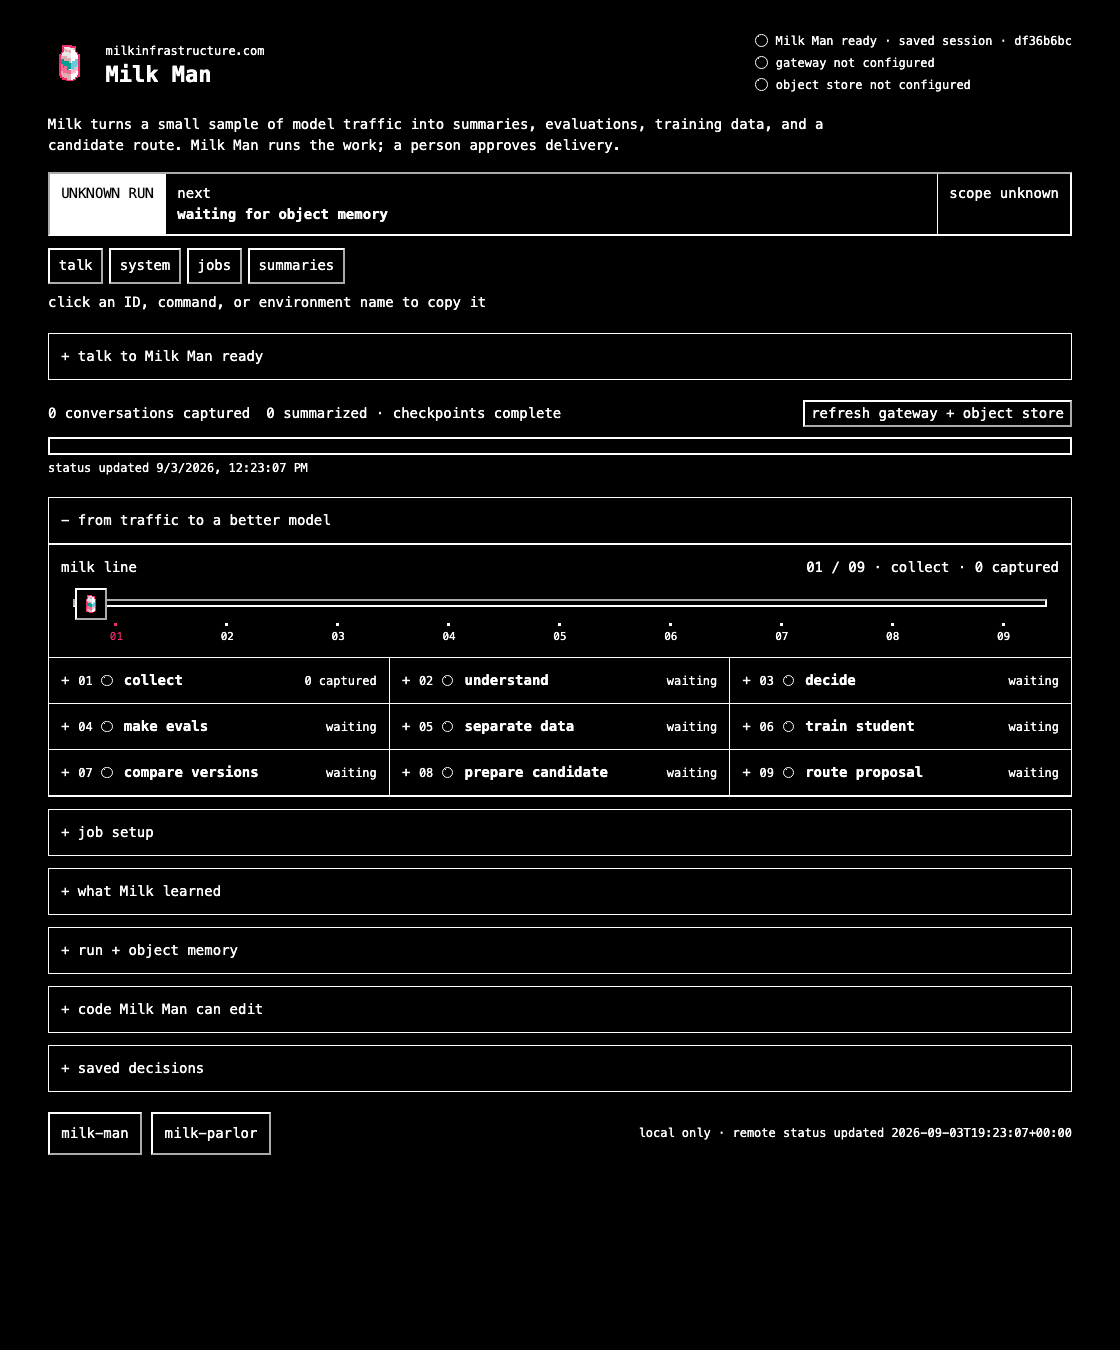
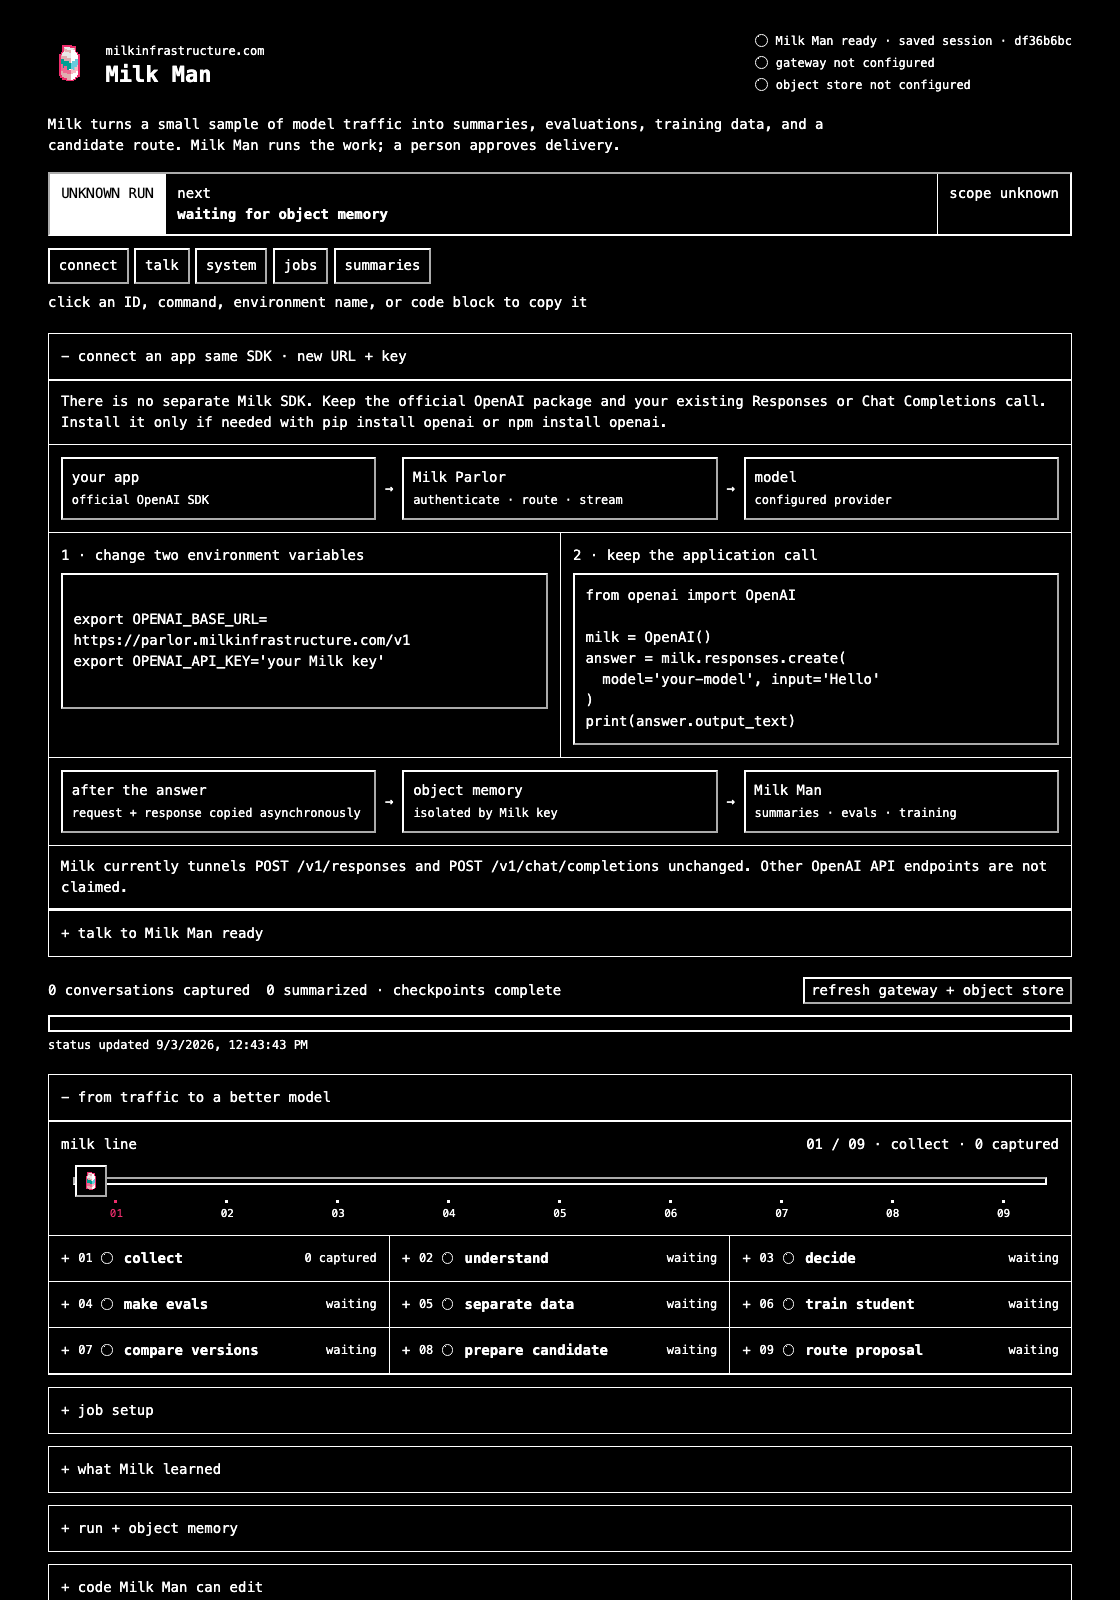
Explain the Milk gateway path

Changed region(s): [[0.0312, 0.0, 0.9688, 0.9956], [0.9062, 0.0, 0.9688, 0.0311]]

diff --git a/milk_v2/web/dashboard.html b/milk_v2/web/dashboard.html
@@ -28,12 +28,39 @@
       <small id="run-scope">scope unknown</small>
     </div>
     <nav class="toolbar" aria-label="Dashboard sections">
+      <a href="#connect">connect</a>
       <a href="#talk">talk</a>
       <a href="#loop">system</a>
       <a href="#jobs-panel">jobs</a>
       <a href="#summaries">summaries</a>
     </nav>
-    <small class="copy-state" id="copy-state" role="status" aria-live="polite">click an ID, command, or environment name to copy it</small>
+    <small class="copy-state" id="copy-state" role="status" aria-live="polite">click an ID, command, environment name, or code block to copy it</small>
+
+    <details id="connect" open>
+      <summary title="Milk uses the official OpenAI client. Only its base URL and key change.">connect an app <small>same SDK · new URL + key</small></summary>
+      <p class="section-help">There is no separate Milk SDK. Keep the official OpenAI package and your existing Responses or Chat Completions call. Install it only if needed with <code>pip install openai</code> or <code>npm install openai</code>.</p>
+      <div class="connection-line" aria-label="Your application sends an OpenAI request through Milk Parlor to its configured model provider.">
+        <span><b>your app</b><small>official OpenAI SDK</small></span><i>→</i>
+        <span><b>Milk Parlor</b><small>authenticate · route · stream</small></span><i>→</i>
+        <span><b>model</b><small>configured provider</small></span>
+      </div>
+      <div class="connect-grid">
+        <section>
+          <b>1 · change two environment variables</b>
+          <button class="copy-block" type="button" data-copy="export OPENAI_BASE_URL=https://parlor.milkinfrastructure.com/v1&#10;export OPENAI_API_KEY='your Milk key'" data-copy-label="Milk connection settings"><code>export OPENAI_BASE_URL=<br>https://parlor.milkinfrastructure.com/v1<br>export OPENAI_API_KEY='your Milk key'</code></button>
+        </section>
+        <section>
+          <b>2 · keep the application call</b>
+          <button class="copy-block" type="button" data-copy="from openai import OpenAI&#10;&#10;milk = OpenAI()&#10;answer = milk.responses.create(model='your-model', input='Hello')&#10;print(answer.output_text)" data-copy-label="Python example"><code>from openai import OpenAI<br><br>milk = OpenAI()<br>answer = milk.responses.create(<br>&nbsp; model='your-model', input='Hello'<br>)<br>print(answer.output_text)</code></button>
+        </section>
+      </div>
+      <div class="capture-line" aria-label="After the answer finishes, Milk Parlor stores both sides for Milk Man to process.">
+        <span><b>after the answer</b><small>request + response copied asynchronously</small></span><i>→</i>
+        <span><b>object memory</b><small>isolated by Milk key</small></span><i>→</i>
+        <span><b>Milk Man</b><small>summaries · evals · training</small></span>
+      </div>
+      <p class="section-help">Milk currently tunnels <code>POST /v1/responses</code> and <code>POST /v1/chat/completions</code> unchanged. Other OpenAI API endpoints are not claimed.</p>
+    </details>
 
     <details class="chat" id="talk" aria-label="Milk Man conversation">
       <summary title="This resumes the saved development session. It does not directly run production jobs or sign routes.">talk to Milk Man <small id="conversation-state">finding session</small></summary>

diff --git a/milk_v2/web/milk.css b/milk_v2/web/milk.css
@@ -147,6 +147,32 @@ footer a:focus-visible,
 .section-help { margin: 0; padding: .65rem .75rem; border-bottom: 1px solid var(--white); }
 kbd { padding: .1rem .3rem; border: 1px outset var(--white); background: var(--black); color: var(--white); }
 
+.connection-line,
+.capture-line {
+  display: grid;
+  grid-template-columns: 1fr auto 1fr auto 1fr;
+  align-items: center;
+  gap: .55rem;
+  padding: .75rem;
+  border-bottom: 1px solid var(--white);
+}
+.connection-line span,
+.capture-line span { min-width: 0; padding: .55rem; border: 2px outset var(--white); }
+.connection-line b,
+.connection-line small,
+.capture-line b,
+.capture-line small { display: block; overflow-wrap: anywhere; }
+.connection-line small,
+.capture-line small { margin-top: .15rem; font-size: 12px; }
+.connection-line i,
+.capture-line i { font-style: normal; text-align: center; }
+.connect-grid { display: grid; grid-template-columns: repeat(2, 1fr); border-bottom: 1px solid var(--white); }
+.connect-grid section { min-width: 0; padding: .75rem; }
+.connect-grid section + section { border-left: 1px solid var(--white); }
+.connect-grid section > b { display: block; margin-bottom: .45rem; }
+.copy-block { width: 100%; min-height: 8.5rem; padding: .65rem; overflow: auto; text-align: left; }
+.copy-block code { white-space: nowrap; }
+
 .prompt-state { min-height: 1.5rem; margin: 0; padding: .35rem .75rem; border-top: 1px solid var(--white); }
 
 .status-line { gap: 1rem; margin-top: 1.25rem; }
@@ -313,6 +339,12 @@ footer span { font-size: 12px; }
   .run-strip > *:last-child { border-bottom: 0; }
   .route-control label { align-items: flex-start; flex-direction: column; gap: .2rem; }
   .route-control output { text-align: left; }
+  .connection-line,
+  .capture-line { grid-template-columns: 1fr; }
+  .connection-line i,
+  .capture-line i { transform: rotate(90deg); }
+  .connect-grid { grid-template-columns: 1fr; }
+  .connect-grid section + section { border-top: 1px solid var(--white); border-left: 0; }
   .stage,
   .job,
   .checkpoint,

diff --git a/milk_v2/web/dashboard.js b/milk_v2/web/dashboard.js
@@ -58,20 +58,21 @@ function node(tag, className, text) {
   return value;
 }
 
+async function copyValue(value, label) {
+  try {
+    await navigator.clipboard.writeText(value);
+    el("copy-state").textContent = "copied " + label;
+  } catch {
+    el("copy-state").textContent = "copy failed · select the text instead";
+  }
+}
+
 function copyButton(display, value, label) {
   const button = node("button", "copy", display);
   button.type = "button";
   button.title = "Copy " + label;
   button.setAttribute("aria-label", "Copy " + label + ": " + display);
-  button.addEventListener("click", async event => {
-    event.stopPropagation();
-    try {
-      await navigator.clipboard.writeText(value);
-      el("copy-state").textContent = "copied " + label;
-    } catch {
-      el("copy-state").textContent = "copy failed · select the text instead";
-    }
-  });
+  button.addEventListener("click", event => { event.stopPropagation(); copyValue(value, label); });
   return button;
 }
 
@@ -536,6 +537,7 @@ async function refreshLocal() {
 
 el("refresh").addEventListener("click", refreshCloud);
 el("stage-scrubber").addEventListener("input", event => selectStage(number(event.target.value) - 1, true));
+document.querySelectorAll("[data-copy]").forEach(button => button.addEventListener("click", () => copyValue(button.dataset.copy, button.dataset.copyLabel)));
 el("run-form").addEventListener("submit", startRun);
 el("prompt").addEventListener("keydown", event => {
   if ((event.metaKey || event.ctrlKey) && event.key === "Enter") {

diff --git a/goal_tracker.md b/goal_tracker.md
@@ -100,7 +100,7 @@ Execution begins by re-verifying these revisions and preserving one local bundle
 - [x] Audited a 53,584-case prepared snapshot. Object schemas, identities, source bindings, digests, case IDs and accepted verdicts were valid, but 9,018 inputs (16.83%) were exact normalized duplicates across shards.
 - [x] Reconstructed and inspected 1,872 accepted cases from eight deterministic shards. The corpus was dominated by simple transformations, extraction, classification, translation and repeated mechanics templates. The same GLM binding generated and validated the cases and accepted 98.47%; this proves mechanics, not useful eval quality.
 - [x] Retain every v21 object as immutable mechanics evidence. Do not coordinate, publish, train from, repair or resume that revision.
-- [~] Replace the independent 100,000-case target with source-proportional generation: `MILK_CASES_PER_CONVERSATION=100`. `MILK_EVAL_SOURCE_CONVERSATIONS` selects an exact deterministic source count and stops before inference if it is unavailable. One eligible held-out conversation produces exactly 100 creative cases; 100 eligible held-out conversations produce exactly 10,000. Prove one conversation through the complete 100-case path before paid scale-up.
+- [x] Replaced the independent 100,000-case target with source-proportional generation: `MILK_CASES_PER_CONVERSATION=100`. `MILK_EVAL_SOURCE_CONVERSATIONS` selects an exact deterministic source count and stops before inference if it is unavailable. One eligible held-out conversation produced exactly 100 creative cases. The separate 100-source/10,000-case proof remains under P7.
[2 lines of base64/hex data omitted]
 - [x] v23 removed the second LLM validator. The eval model commits JSON-schema-constrained output; Milk Man enforces identity, count, source lineage, oracle representation, exact copy, and normalized duplicate checks locally. The implementation was published at `5947a4841`.
@@ -1038,7 +1038,7 @@ Remove old images only after proving they are not referenced by Cloudflare, Moda
 
 Every coding agent receives this goal, its owned subsystem, exact public contracts, and only the listed donor files. It must not broaden scope or build speculative abstractions.
 
-### [~] P0 — Preserve and establish clean repositories
+### [x] P0 — Preserve and establish clean repositories
 
 Progress 2026-09-01:
 
@@ -1049,6 +1049,7 @@ Progress 2026-09-01:
 - [x] Published independent-root default histories. Recorded checkpoints include Milk Man `530235a879c3078623ef2f69e3fb830667a9e496` and Milk Parlor `70dba12f96a12feedf7ed13b605f20d05ebefd23`; the verified local bundle preserves the obsolete history.
 - [x] After verifying the retained all-history bundle, removed all 55 obsolete `origin/codex/*` branches; `origin/main` is now the only remote branch.
 - [x] Detached Milk Man from the GitHub fork network through the signed-in repository control. Real Chrome now shows a standalone public repository with no upstream fork label or ahead/behind controls; `main` remains the Milk-owned root history and `origin/main` remains its only remote branch.
+- [x] Disabled repository Actions, removed its obsolete 21-secret provider environment and GHCR publishing secret, removed Wiki and Projects, retained public issue/PR creation, selected squash-only merges with automatic branch cleanup, and restricted direct `main` updates to `ShantanuJoshi` without status checks.
 
 Objective:
 
@@ -1135,6 +1136,7 @@ Progress 2026-09-01:
 - [x] Deployed that exact Cloudflare manifest. Native streaming Chat reached Baseten and native streaming Responses reached OpenAI through signed zero route revision 5; both completed and persisted without a candidate binding.
 - [x] A fresh scope accepted and asynchronously persisted exactly 100/100 official OpenAI Python SDK Responses exchanges in 23,361 ms with eight clients, zero drops, zero storage failures, and a live writer. This proves the requested small-threshold path; no capture-overhead number is claimed, so an artificial enabled-versus-disabled benchmark is not a completion gate.
[1 lines of base64/hex data omitted]
+- [x] Parlor commit `02ec39593504b3fefe495acaebbcd1a9a44831cb` documents the customer contract without inventing a Milk SDK: official Python and JavaScript OpenAI clients use `https://parlor.milkinfrastructure.com/v1` plus an operator-issued Milk key; Parlor claims only native Responses and Chat Completions compatibility. The local dashboard shows the same request, streaming, asynchronous capture, object-memory and Milk Man path.
 
 Owned:
 
@@ -1220,7 +1222,6 @@ Owned:
 ```text
 milk_v2/providers/modal_controller.py
 images/controller/
-prompts/bootstrap.md
 ```
 
 Allowed donor code:
@@ -1354,7 +1355,7 @@ Active source-proportional execution sequence:
 - [x] The fresh post-fix scope produced eval `259e831c-1f20-5e13-b907-d648dbcd8ac3` with the same exact 50/25/25 split and one case per source. A read-only review of all 50 DEV cases found all useful, no answer leakage or substantive duplicates, and 45 correct as written; five bounded reference defects keep this mechanics-only rather than production-qualified.
 - [ ] Prove 100 eligible held-out sources produce exactly 10,000 useful cases with exactly 100 cases bound to each source.
 
-Operator decision: scaling v24 to 10,000 cases is deferred until the fresh 100-source lineage completes the full Milk job stack.
+The prerequisite full-stack mechanics lineage is complete. Run the 10,000-case proof only on a fresh scope and revision; never resume the rejected historical fan-out.
 
 Owned:
 
@@ -1491,13 +1492,13 @@ Acceptance:
 - both public repositories have concise macOS/Linux quickstarts, environment references, object-tree documentation, licenses, security guidance, tagged commits and release digests;
 - old public names, runtime Actions, unused images, fixtures and transition documents are removed.
 
-### [~] P10 — Remove measured provider startup waste
+### Follow-up — Remove measured provider startup waste
 
 Progress 2026-09-02:
 
 - [x] Provider logs show the current Baseten compatibility path repeatedly installs apt and Python packages before a one-step job. This dominates the useful mechanics work and is the largest measured remaining latency and failure surface.
 - [x] Historical GitHub Actions runs published immutable weight-free train, eval, and serve images; model weights remained separately mounted. Repository-hosted Actions are now deleted, and future image publication uses the reviewed local or external builder.
-- [~] The published digest-pinned images are anonymously pullable from GHCR, but Baseten still rejects them because account-level custom-base-image access is disabled. To continue the requested happy-path mechanics execution, the local fixed Baseten jobs temporarily use the previously proven pinned CUDA base plus digest-verified source; this reintroduces per-job package startup and does not satisfy this optimization milestone.
+- Known limitation: the published digest-pinned images are anonymously pullable from GHCR, but Baseten still rejects them because account-level custom-base-image access is disabled. The local fixed Baseten jobs temporarily use the previously proven pinned CUDA base plus digest-verified source. This reintroduces per-job package startup but does not block the proven system loop.
 - [x] TorchAO 0.18 still lists dynamic FP8 as stable but keeps static activation FP8 under `prototype`. Do not replace the known mechanics implementation with another unstable API or use its tiny-set result for production; BF16 and stable dynamic FP8 remain production candidates until a stable calibrated static path exists.
 - [x] The reviewed evaluation policy runs all three comparable DEV branches in mechanics but only BF16 and dynamic FP8 in production, so a prototype static job cannot block or win the production path. The chosen branch is bound through the sealed result, candidate artifact, direct-image Baseten config, separately invoked Modal job environment, server health, and smoke identity.
 - [x] Direct local payload smokes verified one-command train/eval startup, external Qwen3.5-0.8B weights, prior-checkpoint loading, zero runtime install commands, dynamic-over-static production selection, all-branch serving environments, and static-only activation-scale propagation.
@@ -1523,7 +1524,7 @@ Use only:
 - `bash -n` for shell entrypoints;
 - Python compilation/import check for fixed job modules;
 - `cargo check` before cloud build;
-- GitHub’s actual cached image build;
+- one reviewed local or external image build;
 - one direct smoke per milestone;
 - final end-to-end production scripts.
 
@@ -1568,7 +1569,7 @@ The goal is complete only when:
 - Milk Man runs locally, reads its goal/skills/memory, self-edits either repository, resumes, and retains a reviewed commit.
 - Milk Man provisions GLM-4.5-Air-FP8 on Modal and then uses that endpoint for its own next reasoning turn.
 - `parlor.milkinfrastructure.com` accepts an operator-issued key through the official SDK and asynchronously writes exact two-sided traffic into R2.
-- Local and scheduled Milk Man consume the same remote store through environment bindings.
+- Local Milk Man consumes the remote store through environment bindings; an external scheduler may invoke the same one-shot command without changing its behavior.
 - Production-like traffic progresses through summary, classification, readiness and validated eval generation.
 - One eligible held-out source proves the audited 100-case mechanics path before scale; 100 eligible held-out sources then produce a resumable, schema-valid, deterministically checked and operator-audited 10,000-case corpus with exactly 100 cases per source.
 - The full whiteboard model loop produces a trained Qwen3.5-0.8B student from

diff --git a/README.md b/README.md
@@ -5,6 +5,12 @@ at a time. It reads the same object storage used by production and can collect
 statistics, create evaluation data, train a small model, compare versions, and
 prepare a release for a person to approve.
 
+Applications talk to Milk Parlor, not Milk Man. There is no replacement Milk
+SDK: keep the official OpenAI client and set `OPENAI_BASE_URL` to
+`https://parlor.milkinfrastructure.com/v1` and `OPENAI_API_KEY` to an
+operator-issued Milk key. Milk Parlor tunnels Responses and Chat Completions;
+Milk Man processes the completed traffic later.
+
 It does not need Docker, a local GPU, a database, a queue, or a background
 service. Settings and keys come from environment variables. When there is no
 work, it does not call a model or rent a GPU.
